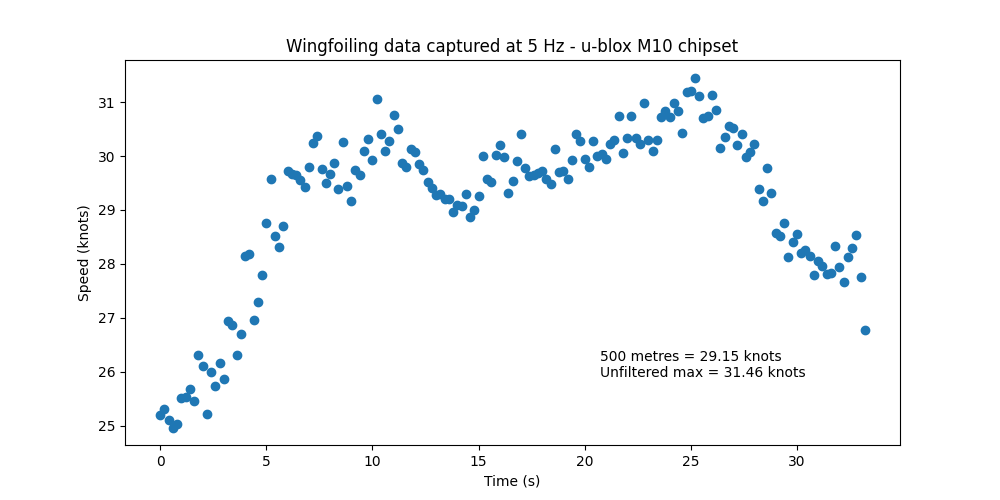
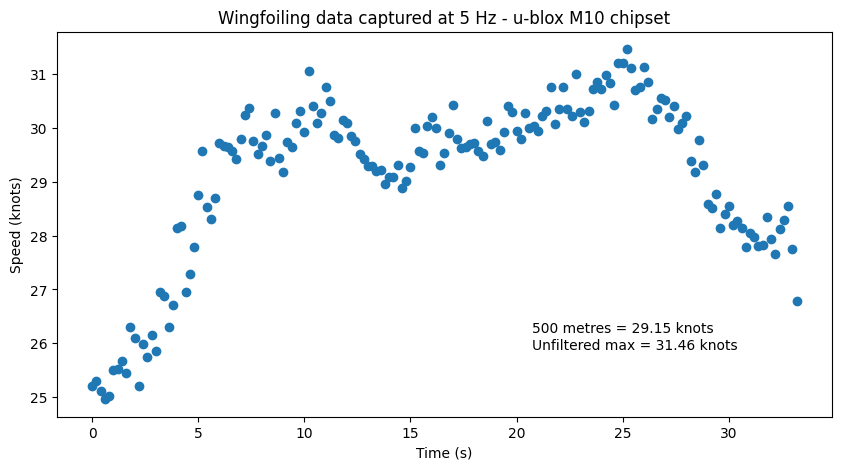
Remove borders from images

diff --git a/docs/articles/8-noise/README.md b/docs/articles/8-noise/README.md
@@ -10,7 +10,7 @@ Speed sailing is one of my favorite disciplines on the water, constantly strivin
 
 Hopefully this article will help to illustrate why we should all ignore "max speed" and focus on other metrics instead. The "max 2 seconds" is usually a decent estimate of your actual top speed if that's what you want to know, but "max speed" itself can be very misleading. There is an example in this article,  showing how the reported "max speed" can be a couple of knots higher than reality, even when the GPS is operating perfectly.
 
-TLDR - we should all ignore "max speed" because it is simply noise, but if you would like some further details then read on!
+TLDR - we should all ignore "max speed" because it is essentially noise, but if you would like some further details then read on!
 
 
 
